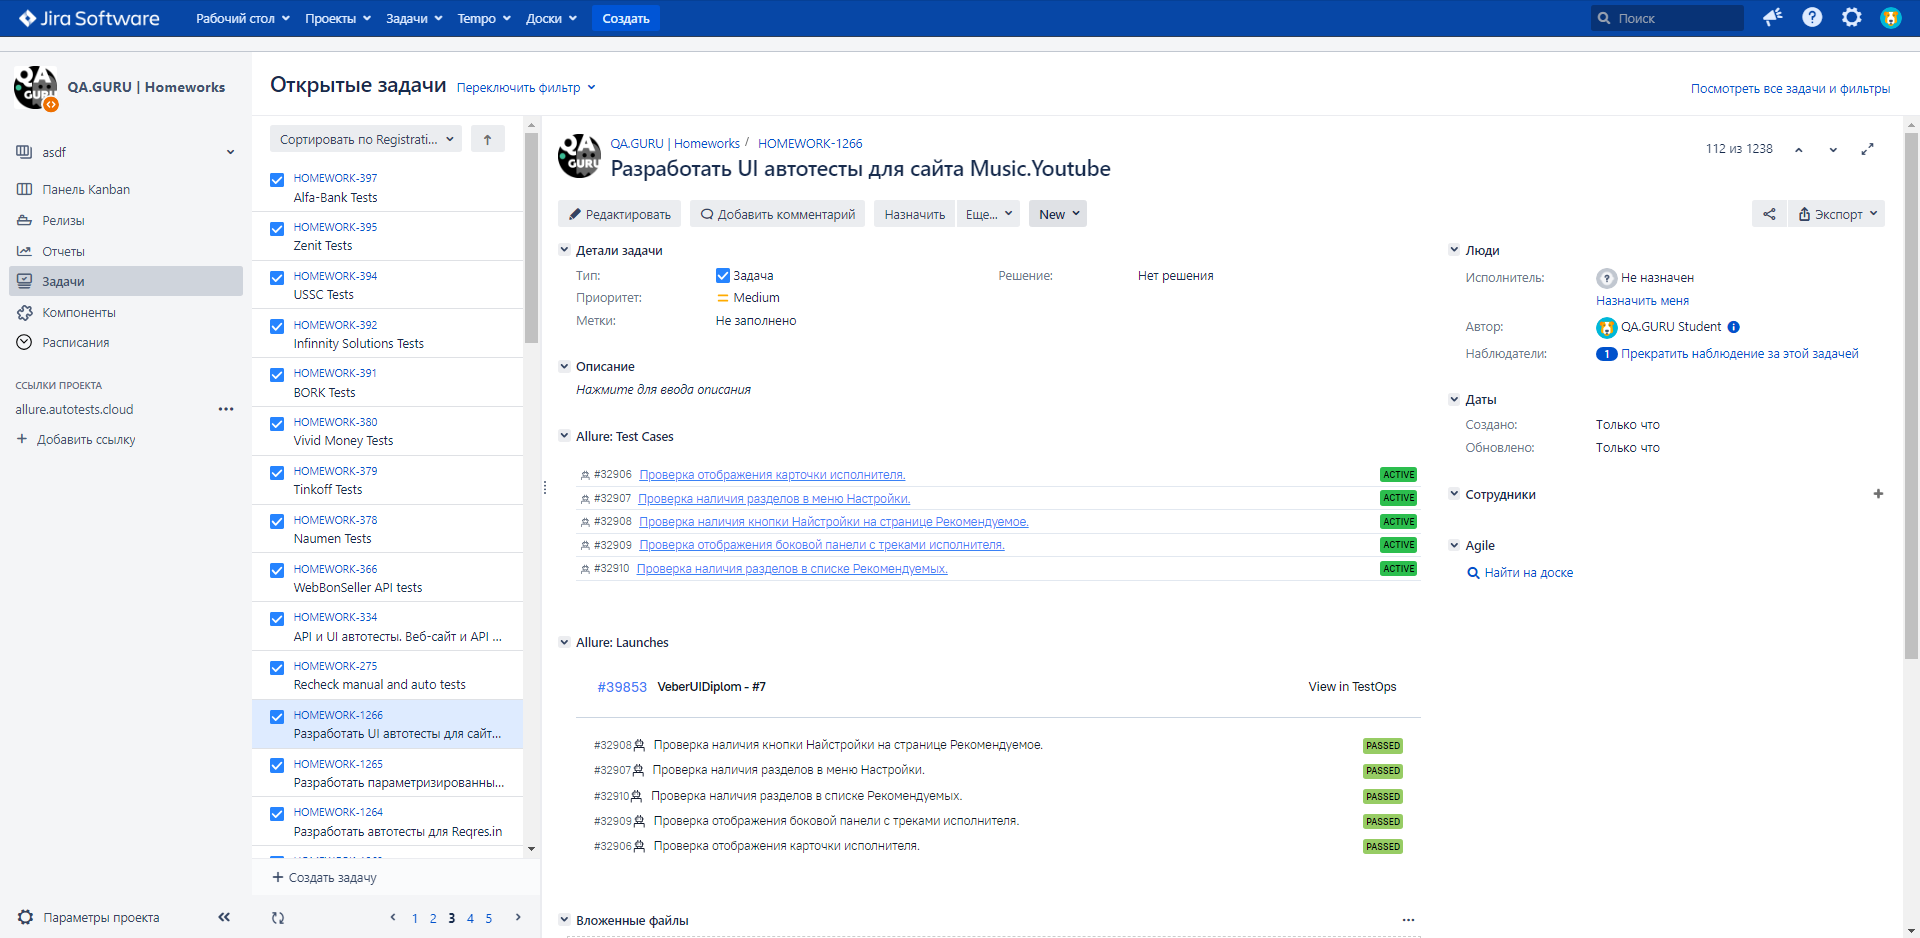
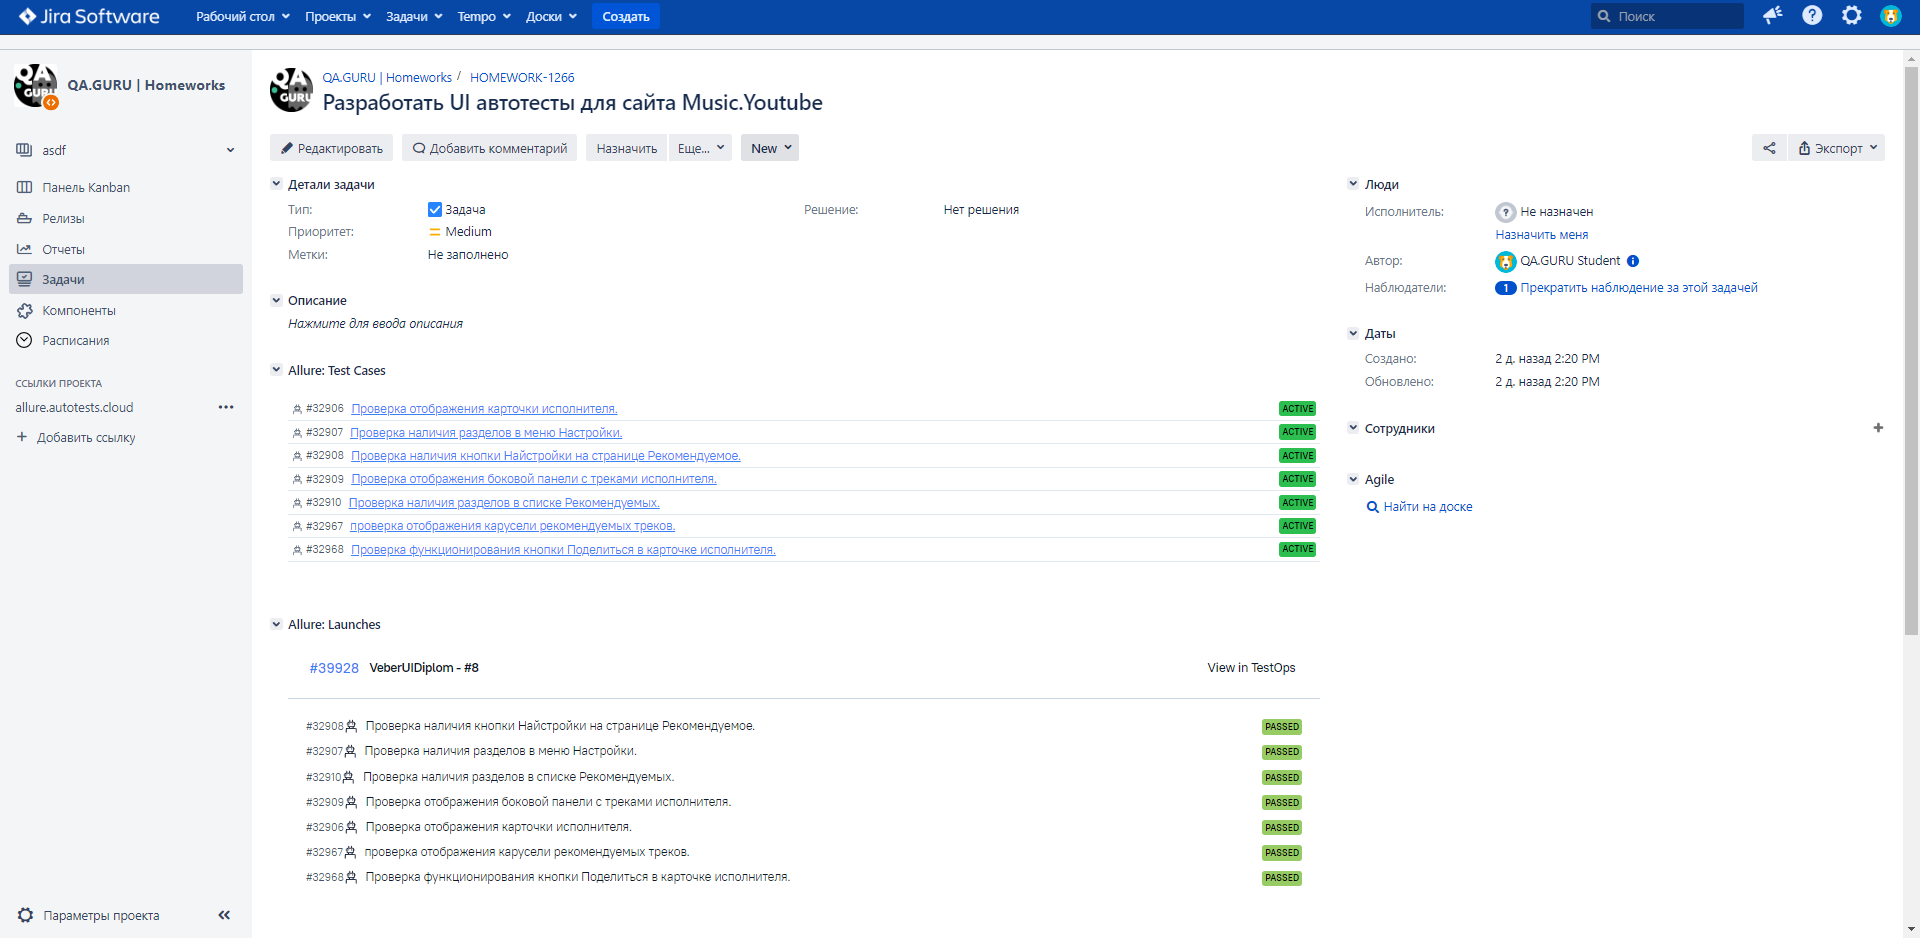
изменить описание

diff --git a/src/test/java/tests/YutMusTests.java b/src/test/java/tests/YutMusTests.java
@@ -46,7 +46,7 @@ public class YutMusTests extends TestBase {
     }
 
     @Test
-    @DisplayName("проверка отображения карусели рекомендуемых треков.")
+    @DisplayName("Проверка отображения карусели рекомендуемых треков.")
     @Tag("chart")
     void chartCarouselExistTest() {
         homePage.openPage()

diff --git a/README.md b/README.md
@@ -35,6 +35,8 @@
 
 - Проверка отображения карточки исполнителя.
 - Проверка отображения боковой панели с треками исполнителя.
+- Проверка функционирования кнопки Поделиться в карточке исполнителя.
+- Проверка отображения карусели рекомендуемых треков.
 - Проверка наличия разделов в списке Рекомендуемых.
 - Проверка наличия кнопки Найстройки на странице Рекомендуемое.
 - Проверка наличия разделов в меню Настройки.
@@ -62,7 +64,7 @@
 ---
 <a id="allureReport"></a>
 
-## [Allure](https://jenkins.autotests.cloud/job/VeberUIDiplom/7/allure/) отчет
+## [Allure](https://jenkins.autotests.cloud/job/VeberUIDiplom/8/allure/) отчет
 
 ### Главная страница отчета
 
@@ -73,7 +75,7 @@
 ### Тест-кейсы
 
 <p align="center">
-<img src="media/alluretsuits.png" alt="Test Case">
+<img src="media/alluresuits.png" alt="Test Case">
 </p>
 
 ---
